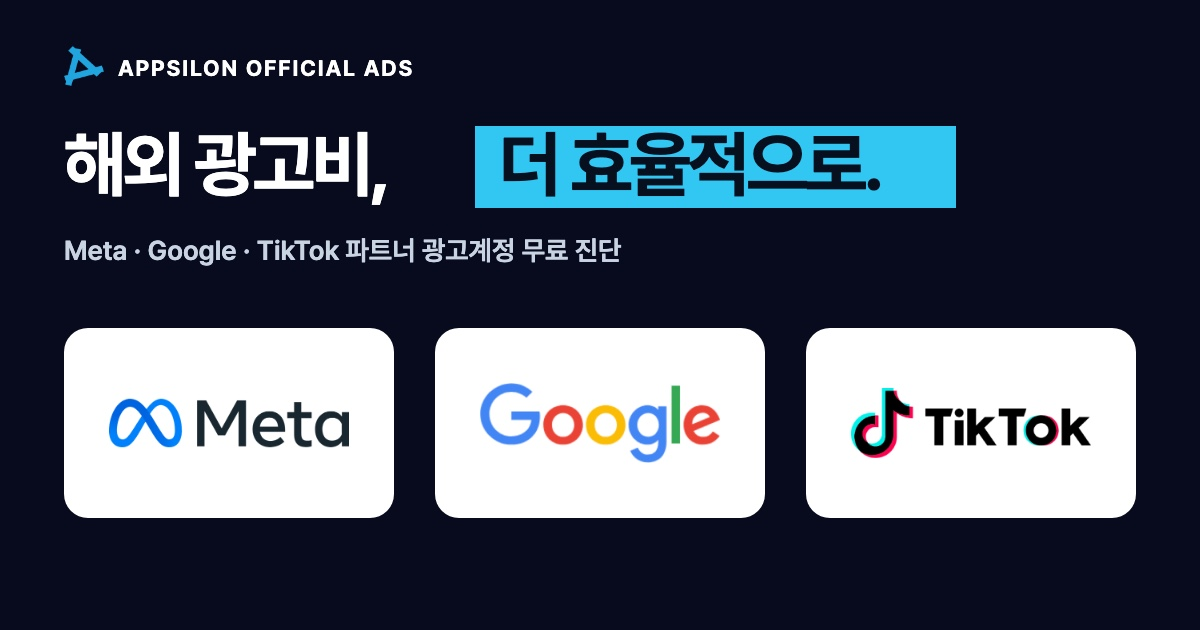
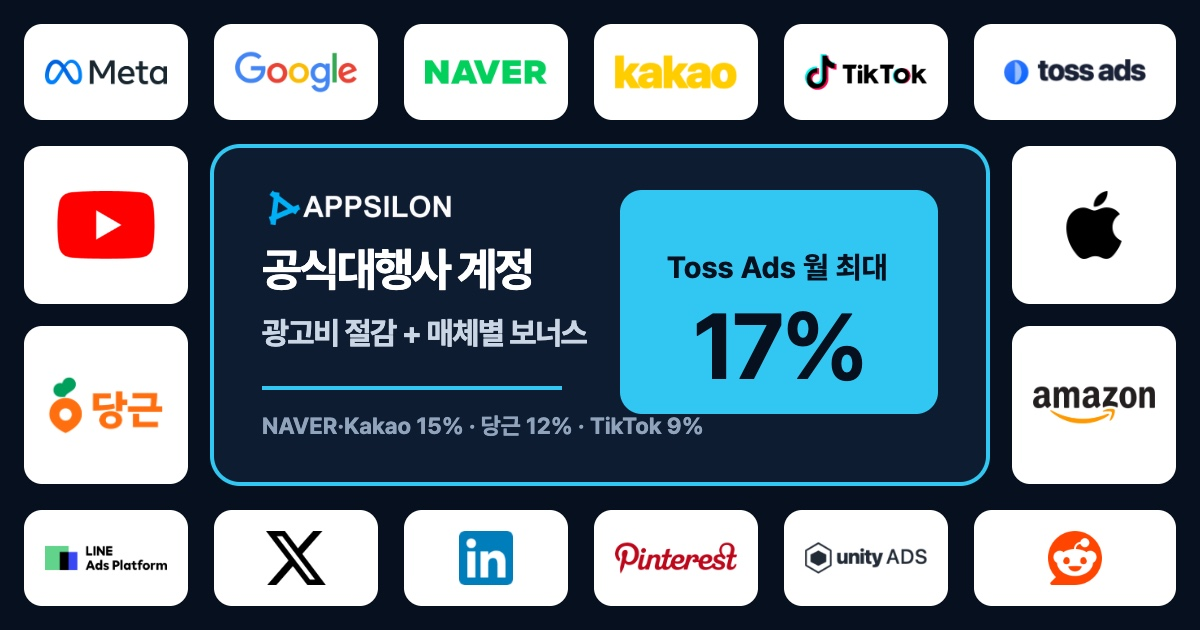
feat: replace partner agency OG with multi-media grid (#18)

diff --git a/lp/meta/index.html b/lp/meta/index.html
@@ -12,19 +12,19 @@
   <meta property="og:type" content="website">
   <meta property="og:locale" content="ko_KR">
   <meta property="og:site_name" content="APPSILON OFFICIAL ADS">
-  <meta property="og:title" content="해외 결제 수수료는 줄이고, 보너스 크레딧은 더 받으세요 | APPSILON">
-  <meta property="og:description" content="Meta·Google·TikTok 파트너 광고계정으로 광고비 결제 구조와 적용 가능한 혜택을 무료로 진단하세요.">
+  <meta property="og:title" content="공식대행사 계정으로 광고비 절감 + 매체별 보너스 | APPSILON">
+  <meta property="og:description" content="Toss Ads 월 최대 17%, NAVER·Kakao 최대 15%, 당근 최대 12%, TikTok 최대 9%의 적용 가능 혜택을 무료로 진단하세요.">
   <meta property="og:url" content="https://partneragency.net/lp/meta">
-  <meta property="og:image" content="https://partneragency.net/lp/meta/assets/social/og-global-spend.jpg">
-  <meta property="og:image:secure_url" content="https://partneragency.net/lp/meta/assets/social/og-global-spend.jpg">
+  <meta property="og:image" content="https://partneragency.net/lp/meta/assets/social/og-global-spend.jpg?v=20261128-grid">
+  <meta property="og:image:secure_url" content="https://partneragency.net/lp/meta/assets/social/og-global-spend.jpg?v=20261128-grid">
   <meta property="og:image:type" content="image/jpeg">
   <meta property="og:image:width" content="1200">
   <meta property="og:image:height" content="630">
-  <meta property="og:image:alt" content="APPSILON 파트너 광고계정 광고비 절감 무료 진단">
+  <meta property="og:image:alt" content="APPSILON 공식대행사 계정 광고비 절감 및 매체별 보너스">
   <meta name="twitter:card" content="summary_large_image">
-  <meta name="twitter:title" content="해외 결제 수수료는 줄이고, 보너스 크레딧은 더 받으세요 | APPSILON">
-  <meta name="twitter:description" content="Meta·Google·TikTok 파트너 광고계정의 적용 가능한 혜택을 무료로 진단하세요.">
-  <meta name="twitter:image" content="https://partneragency.net/lp/meta/assets/social/og-global-spend.jpg">
+  <meta name="twitter:title" content="공식대행사 계정으로 광고비 절감 + 매체별 보너스 | APPSILON">
+  <meta name="twitter:description" content="Toss Ads 월 최대 17%, NAVER·Kakao 최대 15%, 당근 최대 12%, TikTok 최대 9%의 적용 가능 혜택을 무료로 진단하세요.">
+  <meta name="twitter:image" content="https://partneragency.net/lp/meta/assets/social/og-global-spend.jpg?v=20261128-grid">
   <link rel="icon" type="image/png" sizes="16x16" href="/lp/meta/assets/favicon-16.png">
   <link rel="icon" type="image/png" sizes="32x32" href="/lp/meta/assets/favicon-32.png">
   <link rel="apple-touch-icon" sizes="180x180" href="/lp/meta/assets/apple-touch-icon.png">
